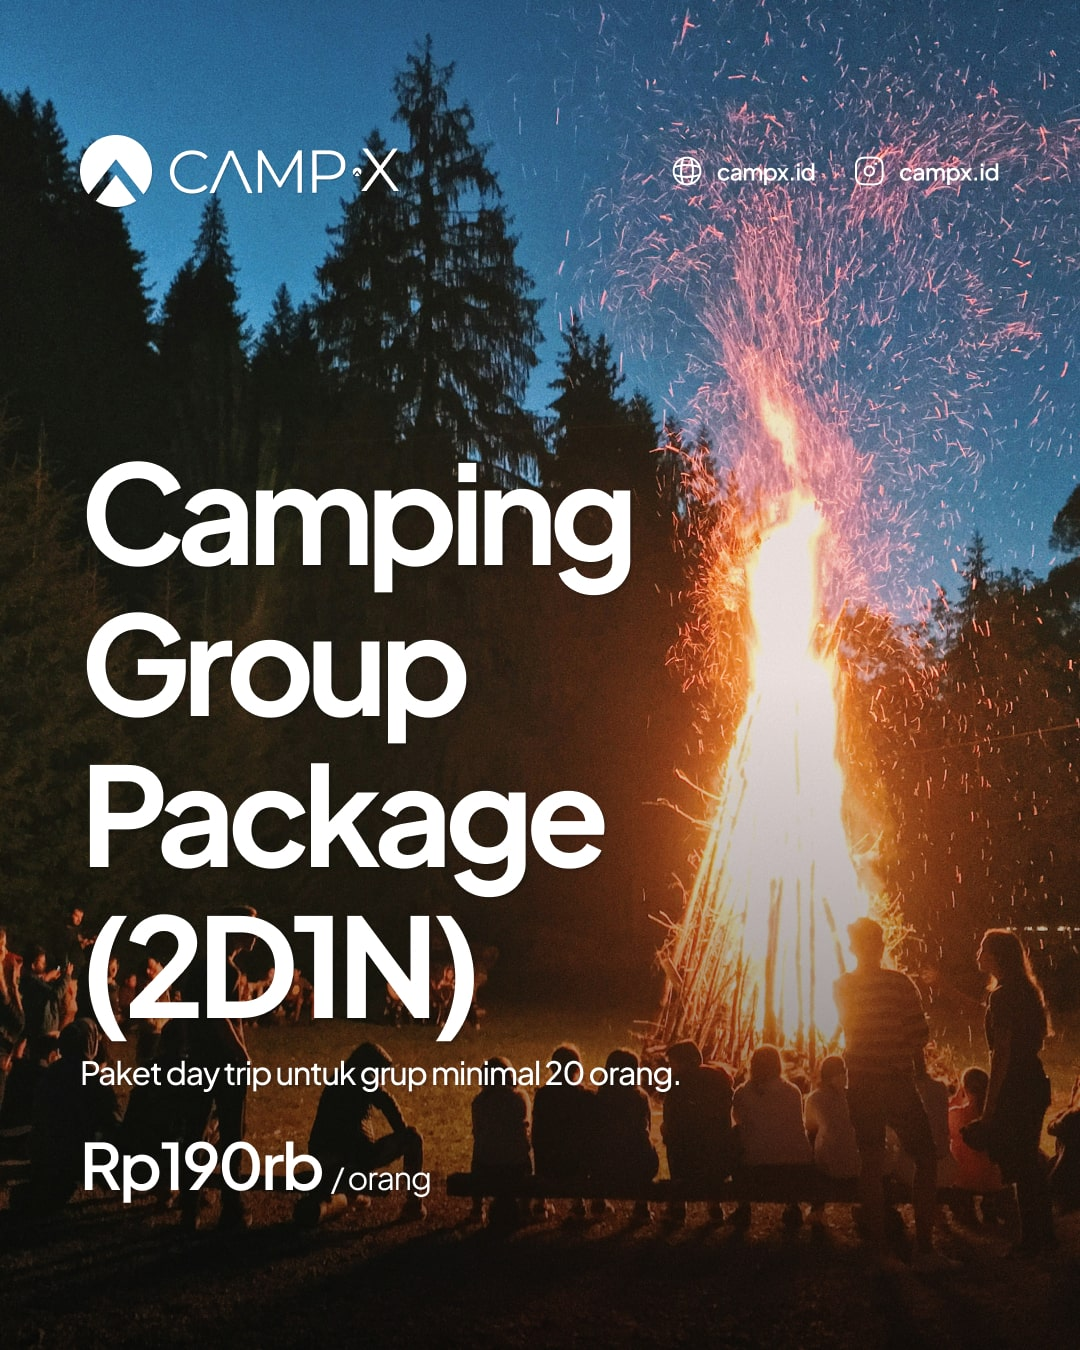
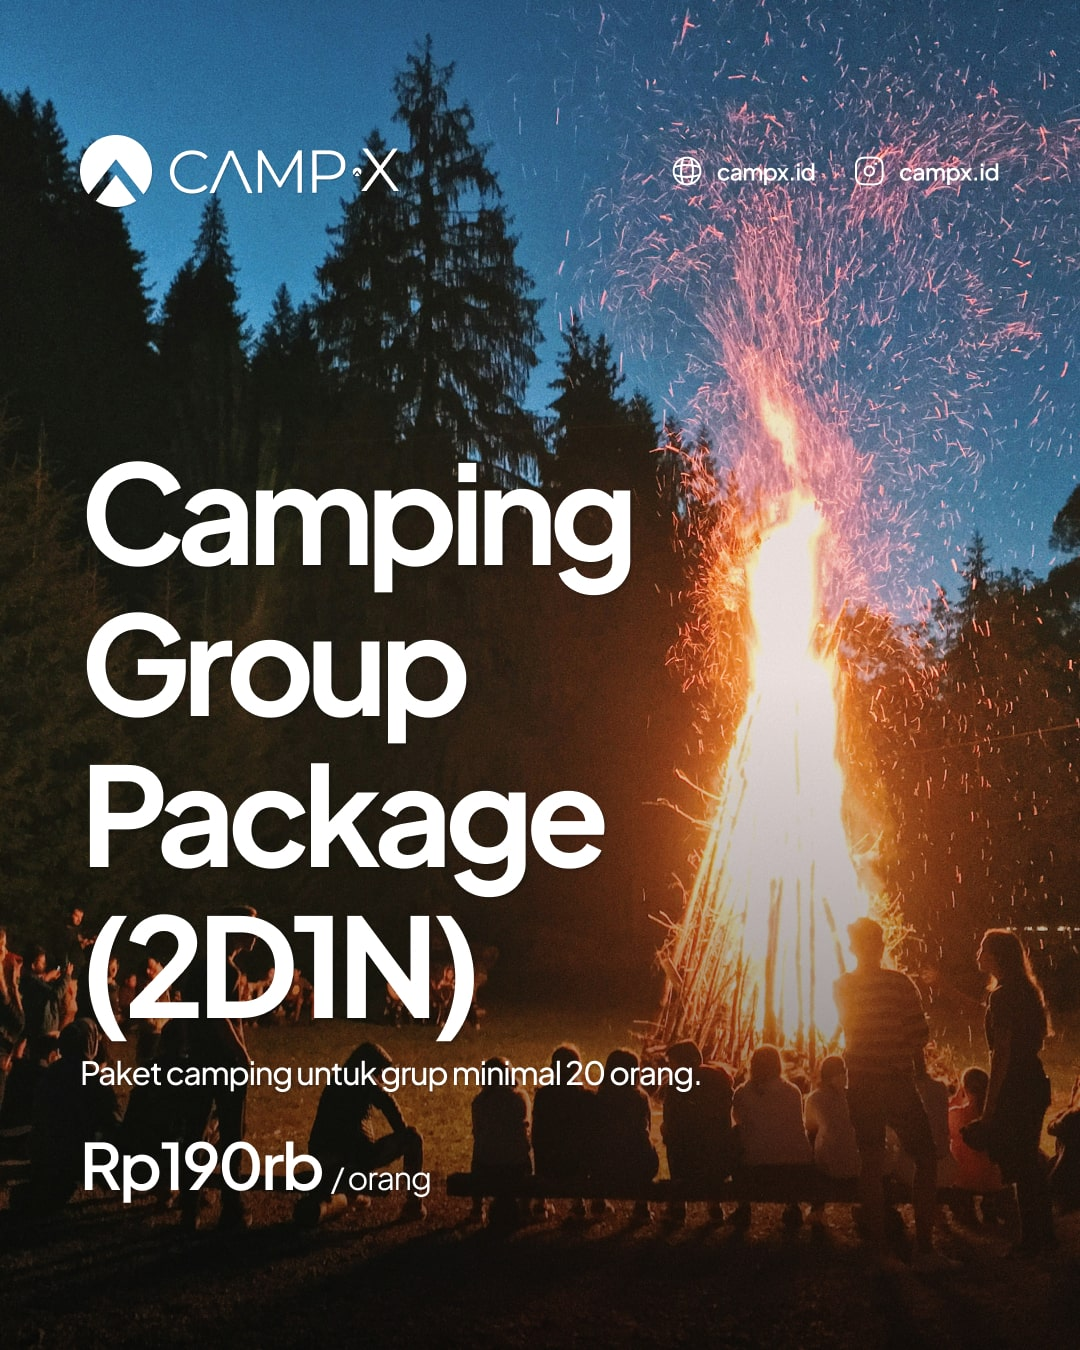
updates

Changed region(s): [[0.1528, 0.7778, 0.6417, 0.8089]]

diff --git a/pages/experiences/[slug].vue b/pages/experiences/[slug].vue
@@ -81,8 +81,39 @@
             </div>
           </div>
 
-          <div class="flex flex-col items-start lg:col-span-5">
-            <h1 class="section-title">{{ experience.title }}</h1>
+          <div class="flex flex-col items-start lg:col-span-5 lg:pt-2">
+            <div
+              v-if="experience.status"
+              class="flex items-center gap-x-2 tracking-tight"
+            >
+              <span class="relative flex size-2">
+                <span
+                  class="animate-ping-slow absolute inline-flex size-full rounded-full opacity-75"
+                  :class="{
+                    'bg-green-500':
+                      experience.status.toLocaleLowerCase() == 'available',
+                    'bg-yellow-400':
+                      experience.status.toLocaleLowerCase() == 'coming soon',
+                    'bg-red-500':
+                      experience.status.toLocaleLowerCase() == 'sold out',
+                  }"
+                ></span>
+                <span
+                  class="relative inline-flex size-2 rounded-full"
+                  :class="{
+                    'bg-green-500':
+                      experience.status.toLocaleLowerCase() == 'available',
+                    'bg-yellow-400':
+                      experience.status.toLocaleLowerCase() == 'coming soon',
+                    'bg-red-500':
+                      experience.status.toLocaleLowerCase() == 'sold out',
+                  }"
+                ></span>
+              </span>
+              <span>{{ experience.status }}</span>
+            </div>
+
+            <h1 class="section-title mt-2">{{ experience.title }}</h1>
 
             <div
               v-if="experience.categories?.length"
@@ -270,14 +301,14 @@
             </div>
 
             <div class="mt-8 flex flex-col items-start">
-              <nuxt-link
-                to="/files/campx-sitemap.pdf"
+              <a
+                href="/files/campx-sitemap.pdf"
                 target="_blank"
                 class="bg-muted hover:bg-border text-primary flex items-center justify-center gap-x-2 rounded-xl px-5 py-3 tracking-tight"
               >
                 <Icon name="hugeicons:maps" class="size-5 shrink-0" />
                 <span>Denah CampX</span>
-              </nuxt-link>
+              </a>
             </div>
           </div>
         </div>

diff --git a/assets/css/main.css b/assets/css/main.css
@@ -84,17 +84,17 @@
   --color-gray-900: oklch(0.216 0.006 56.043);
   --color-gray-950: oklch(0.147 0.004 49.25); */
 
-  --color-green-50: oklch(0.9794 0.0132 152.61);
-  --color-green-100: oklch(0.9551 0.0332 150.85);
-  --color-green-200: oklch(0.9108 0.0614 152.25);
-  --color-green-300: oklch(0.841 0.106 151.36);
-  --color-green-400: oklch(0.7512 0.1481 149.72);
-  --color-green-500: oklch(0.6631 0.161 148.34);
-  --color-green-600: oklch(0.6013 0.1503 148.14);
-  --color-green-700: oklch(0.4846 0.1144 148.6);
-  --color-green-800: oklch(0.4159 0.088 149.89);
-  --color-green-900: oklch(0.368 0.074 150.67);
-  --color-green-950: oklch(0.2483 0.0514 151.07);
+  --color-kv-green-50: oklch(0.9794 0.0132 152.61);
+  --color-kv-green-100: oklch(0.9551 0.0332 150.85);
+  --color-kv-green-200: oklch(0.9108 0.0614 152.25);
+  --color-kv-green-300: oklch(0.841 0.106 151.36);
+  --color-kv-green-400: oklch(0.7512 0.1481 149.72);
+  --color-kv-green-500: oklch(0.6631 0.161 148.34);
+  --color-kv-green-600: oklch(0.6013 0.1503 148.14);
+  --color-kv-green-700: oklch(0.4846 0.1144 148.6);
+  --color-kv-green-800: oklch(0.4159 0.088 149.89);
+  --color-kv-green-900: oklch(0.368 0.074 150.67);
+  --color-kv-green-950: oklch(0.2483 0.0514 151.07);
 
   --navbar-height-mobile: 3.5rem;
   --navbar-height-desktop: 3.5rem;
@@ -118,7 +118,7 @@
     --muted: var(--color-gray-100);
     --muted-foreground: var(--color-gray-600);
 
-    --accent: var(--color-green-600);
+    --accent: var(--color-kv-green-600);
     --accent-foreground: var(--color-white);
 
     --card: var(--color-white);
@@ -156,7 +156,7 @@
     --muted: var(--color-gray-900);
     --muted-foreground: var(--color-gray-400);
 
-    --accent: var(--color-green-600);
+    --accent: var(--color-kv-green-600);
     --accent-foreground: var(--color-white);
 
     --card: var(--color-gray-950);
@@ -586,7 +586,7 @@ img.pswp__img {
 }
 
 .gradient-accent {
-  @apply from-green-500 to-green-600;
+  @apply from-kv-green-500 to-kv-green-600;
 }
 
 .gradient-gold {

diff --git a/stores/experiences.js b/stores/experiences.js
@@ -277,6 +277,48 @@ export const useExperienceStore = defineStore("experiences", {
       },
 
       {
+        title: "Day Trip Group Package",
+        slug: "day-trip-group-package",
+        status: "Available",
+        categories: ["Paket Grup"],
+        shortDescription: "Paket day trip untuk grup minimal 20 orang.",
+        description: `
+        `,
+        coverImage:
+          "/img/experiences/day-trip-group-package/cover-day-trip-group-package.jpg",
+        included: ["Tiket masuk CampX Jatiluhur"],
+        excluded: [],
+        pricing: [
+          {
+            label: "Paket Grup Day Trip",
+            value: 150000,
+            unit: "orang",
+          },
+        ],
+      },
+
+      {
+        title: "Camping Group Package",
+        slug: "camping-group-package",
+        status: "Available",
+        categories: ["Paket Grup"],
+        shortDescription: "Paket camping untuk grup minimal 20 orang.",
+        description: `
+        `,
+        coverImage:
+          "/img/experiences/camping-group-package/cover-camping-group-package.jpg",
+        included: ["Tiket masuk CampX Jatiluhur"],
+        excluded: [],
+        pricing: [
+          {
+            label: "Paket Grup Camping 2 Days 1 Night",
+            value: 190000,
+            unit: "orang",
+          },
+        ],
+      },
+
+      {
         title: "Boyer Hill Summit Challenge Day Trip",
         slug: "boyer-hill-summit-challenge-day-trip",
         status: "Available",
@@ -392,7 +434,16 @@ export const useExperienceStore = defineStore("experiences", {
 
   getters: {
     getItemBySlug: (state) => (slug) => {
-      return state.list.find((item) => item.slug === slug);
+      return state.list.find((item) => item.slug === slug) || null;
+    },
+
+    getItemsByCategories: (state) => (category) => {
+      if (!category) {
+        return [];
+      }
+      return state.list.filter((item) => {
+        return item.categories && item.categories.includes(category);
+      });
     },
   },
 });

diff --git a/components/Experiences.vue b/components/Experiences.vue
@@ -1,18 +1,36 @@
 <template>
-  <section id="experiences">
-    <div class="container">
-      <h1 class="section-title">Experiences</h1>
+  <section id="experiences" class="space-y-8 lg:space-y-16">
+    <div v-for="(category, index) in categories" :key="index">
+      <div class="container">
+        <h1 class="section-title">{{ category.title }}</h1>
+        <p v-if="category.description" class="section-description">
+          {{ category.description }}
+        </p>
+      </div>
+
+      <ExperienceSlider class="mt-4 lg:mt-6" :items="category.list" />
     </div>
-
-    <ExperienceSlider class="mt-4 lg:mt-6" :items="experiences" />
-
-    <!-- <pre
-      class="container overflow-scroll rounded-xl bg-gray-950 p-4 text-sm text-gray-300 sm:p-6"
-      >{{ experiences }}</pre
-    > -->
   </section>
 </template>
 
 <script setup>
-const experiences = useExperienceStore().list;
+const experiences = useExperienceStore();
+
+const categories = [
+  {
+    title: "Paket Personal",
+    description: "",
+    list: experiences.getItemsByCategories("Paket Personal"),
+  },
+  {
+    title: "Aktivitas",
+    description: "",
+    list: experiences.getItemsByCategories("Activity"),
+  },
+  {
+    title: "Paket Grup",
+    description: "",
+    list: experiences.getItemsByCategories("Paket Grup"),
+  },
+];
 </script>

diff --git a/components/ExperienceSlider.vue b/components/ExperienceSlider.vue
@@ -15,13 +15,16 @@
       <CarouselItem
         v-for="(item, index) in items"
         :key="index"
-        class="carousel-item basis-[280px] pl-2 lg:basis-[320px]"
+        class="carousel-item max-w-[400px] basis-[280px] pl-2 lg:basis-[320px] 2xl:basis-[20%]"
       >
         <ExperienceCard :item="item" />
       </CarouselItem>
     </CarouselContent>
 
-    <div class="container mt-6 flex justify-end gap-2">
+    <div
+      v-if="canScrollPrev || canScrollNext"
+      class="container mt-6 flex justify-end gap-2"
+    >
       <button
         @click="scrollPrev"
         :disabled="!canScrollPrev"

diff --git a/app.vue b/app.vue
@@ -3,7 +3,7 @@
     <div class="font-sans text-sm antialiased sm:text-base">
       <NuxtLoadingIndicator color="#4eb362" />
       <NuxtLayout>
-        <NuxtPage :keepalive="{ include: '' }" />
+        <NuxtPage :keepalive="{ include: 'index' }" />
       </NuxtLayout>
       <Toaster class="pointer-events-auto" />
     </div>

diff --git a/components/ExperienceCard.vue b/components/ExperienceCard.vue
@@ -8,7 +8,7 @@
         class="pointer-events-none size-full object-cover select-none"
         width="1080"
         height="1350"
-        sizes="280px lg:320px"
+        sizes="280px lg:320px 2xl:400px"
         loading="lazy"
         format="webp"
       />
